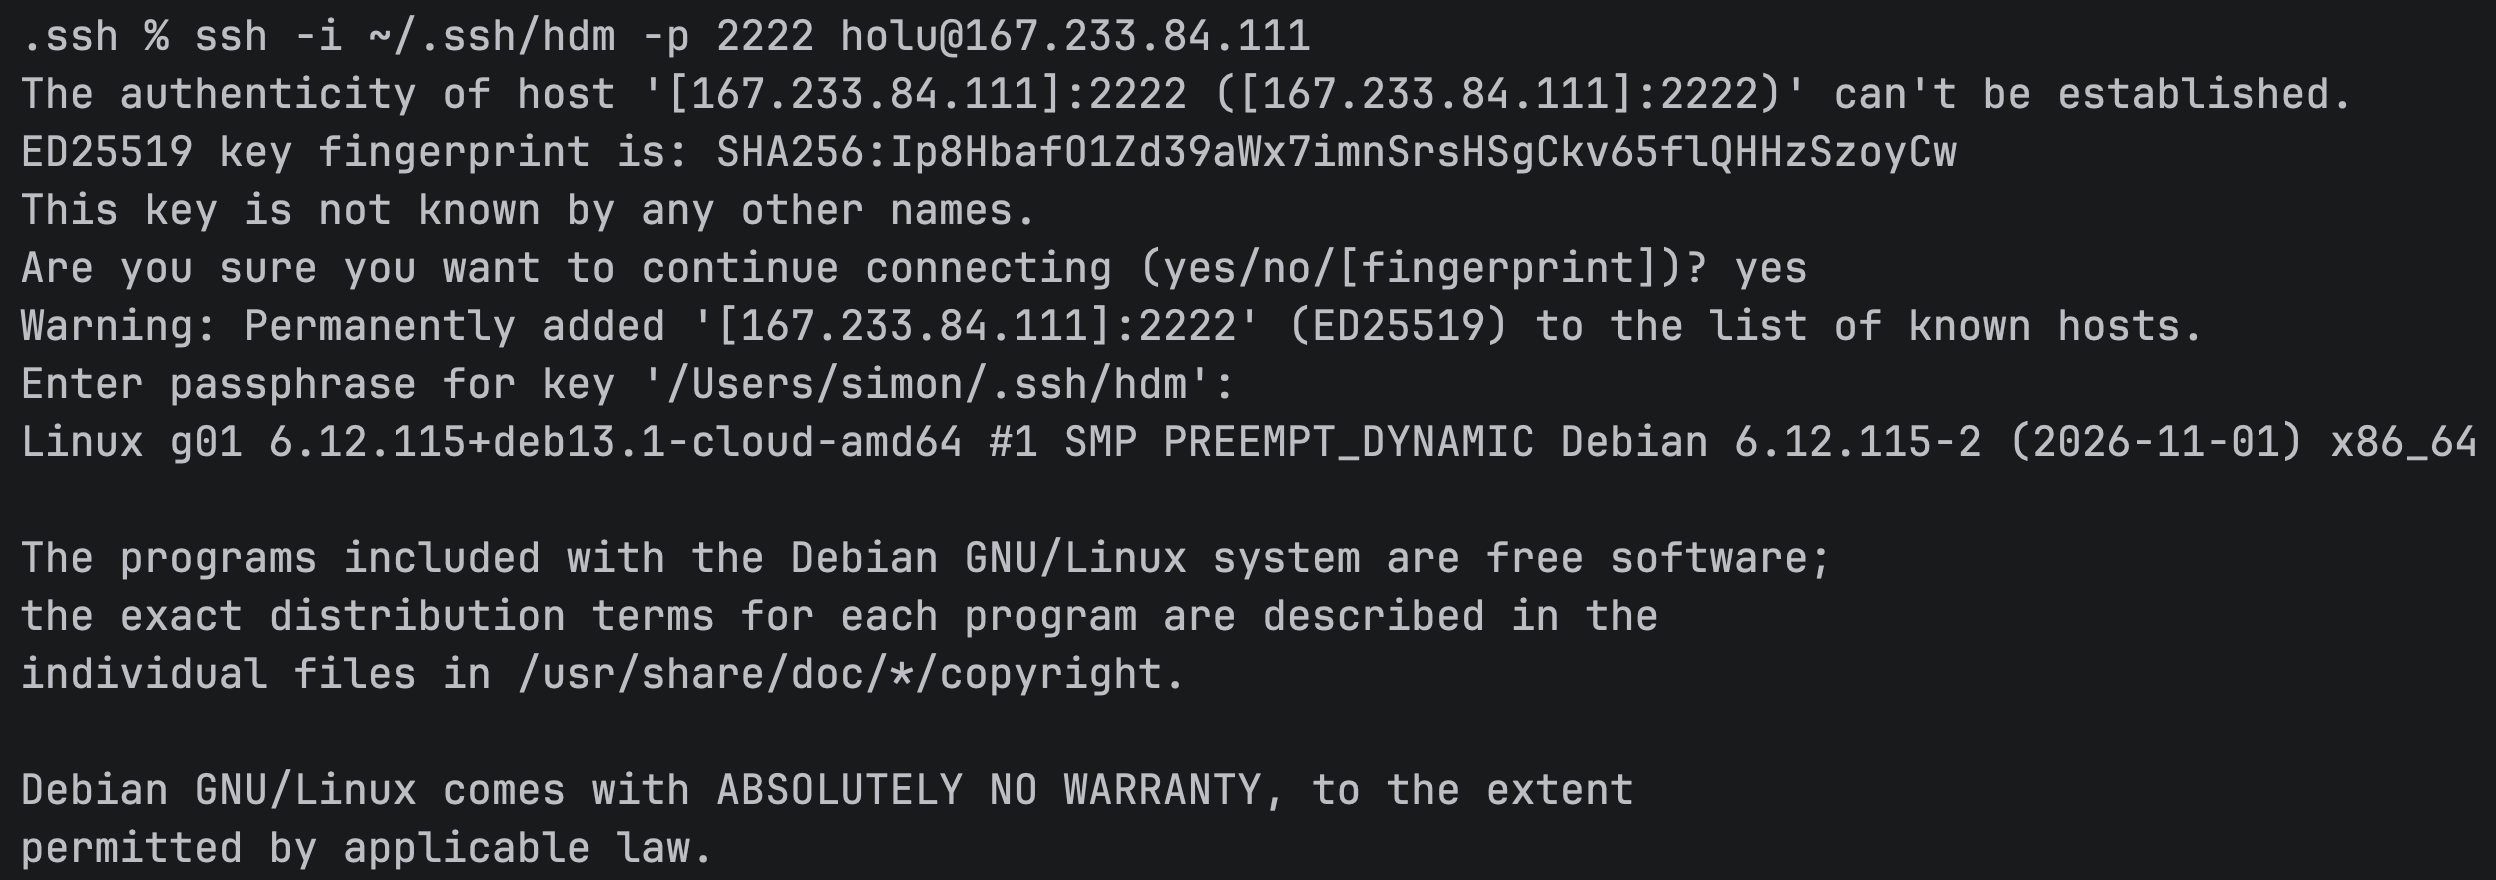
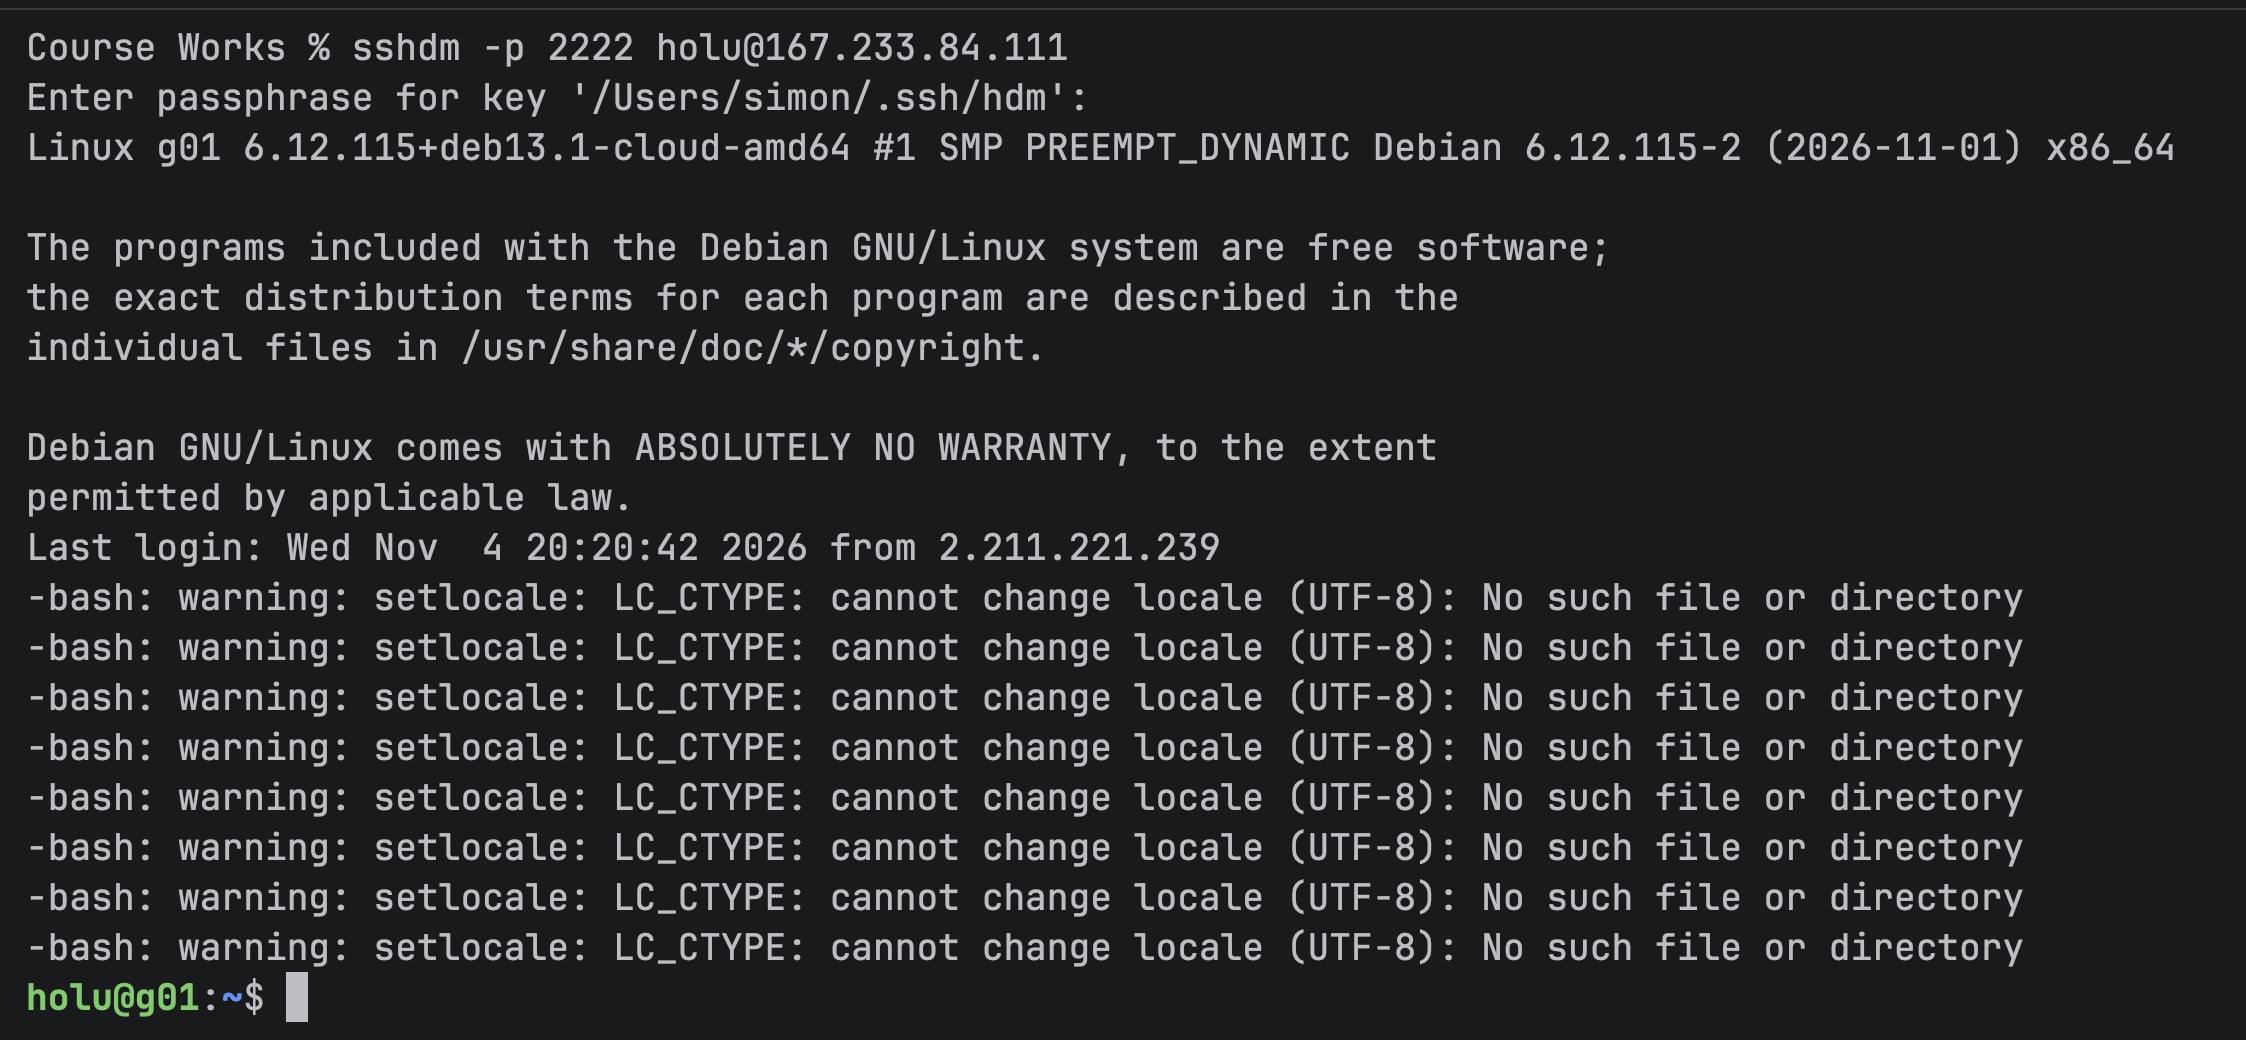
Updated solution for ex. 19

Changed region(s): [[0.0, 0.0, 0.9973, 0.9818]]

diff --git a/mkdocs/docs/19. Cloud-init for starters/2. Result.md b/mkdocs/docs/19. Cloud-init for starters/2. Result.md
@@ -1,0 +1,50 @@
+# Results
+
+## Logging into the server
+
+After waiting for the script to run, log into the newly created server.
+Since we changed the port SSH runs on, we have to specify `-p 2222`:
+
+``` bash
+ssh -i ~/.ssh/hdm -p 2222 holu@167.233.84.111
+```
+
+Note that a login as user `root` is no longer possible:
+
+<img src="img/11.root.png" style="max-height: 2.5lh">
+
+Logging in has to be done as the user `holu`:
+
+<img src="img/3.%20Connecting%20to%20the%20server.png" style="max-height: 17.5lh">
+
+Attempting a login without a permitted public key fails without allowing password login:
+
+<img src="img/10.failpki.png" style="max-height: 2lh">
+
+Logging in was successful, confirming the _cloud-init_ configuration was loaded.
+The specified SSH keys were placed into the server's `authorized_keys` file:
+
+<img src="img/5.%20authorized_keys.png" style="max-height: 3lh">
+
+## Firewall
+
+The configuration was supposed to set up a simple firewall, allowing only incoming SSH traffic to establish a connection.
+
+<img src="img/4.Firewall.png" style="max-height: 8lh">
+
+
+The firewall created via _cloud-init_ drops all packets except SSH traffic.
+ICMP is usually enabled by default if a server is created via the Hetzner GUI, but pinging the server for example doesn't work anymore since the firewall rules don't allow them through:
+
+<img src="img/6.ping.png" style="max-height: 7lh">
+
+## Fail2Ban
+
+In addition, _fail2ban_ was set up.<br>
+Repeated failed attempts are already penalized by the system, meaning _fail2ban_ doesn't register the unsuccessful tries: 
+
+<img src="img/8.%20ssh_penalty.png" style="max-height: 10lh">
+
+It is possible to confirm the tool was still set up by checking the file `jail.local`:
+
+<img src="img/7.Fail2Ban.png" style="max-height: 5lh">

diff --git a/mkdocs/docs/20. Cloud-init by Terraform/2. Result.md b/mkdocs/docs/20. Cloud-init by Terraform/2. Result.md
@@ -1,0 +1,25 @@
+# Result
+
+The resulting server configuration was the same as described in [Exercise 19. Results](../19.%20Cloud-init%20for%20starters/2.%20Result%20Verification.md), except for the following:
+
+- A cheaper server type was selectable via the API, meaning the server ran on a machine with fewer resources.
+
+Terraform allows creation of the server type `Cost-Optimized CX23`:
+```terraform
+variable "serverType" {
+  description = "Server type"
+  type = string
+  nullable = true
+  default = "cx23"
+}
+```
+
+Servers of type `CX23` are only available in limited amounts and sometimes not selectable via the GUI:
+
+<img src="img/cx23.png" style="max-width: 28lh;">
+
+- The deployment was now possible via Terraform, meaning the need for manual GUI interaction was gone.
+
+This means the deployment can be done via shell and therefore automated:
+
+<img src="img/creation.png" style="max-width: 34lh;">

diff --git a/mkdocs/docs/19. Cloud-init for starters/1. Solution.md b/mkdocs/docs/19. Cloud-init for starters/1. Solution.md
@@ -5,6 +5,17 @@
 To create the configuration, follow the instructions laid out in [Hetzner - Basic Cloud Config](https://community.hetzner.com/tutorials/basic-cloud-config/).
 The page provides the full configuration necessary to create the basic server instance via _cloud-init_.
 
+_Cloud-init_ generates its own config file _50-cloud-init.conf_ automatically, which enables password login by default:
+
+<img src="img/9.50config.png" style="max-height: 4lh">
+
+To ensure the desired SSH configuration takes effect, an additional parameter has to be added to prevent password login from being enabled:
+```terraform
+ssh_pwauth: false
+```
+
+### Verifying the configuration
+
 To verify the configuration was created correctly, run the schema validation:
 
 <img src="img/1.%20Validating%20cloud-init.png" style="max-width: 100%; max-height: 3lh;">

diff --git a/mkdocs/docs/20. Cloud-init by Terraform/0. Task.md b/mkdocs/docs/20. Cloud-init by Terraform/0. Task.md
@@ -1,8 +1,8 @@
 # Task
 
-## Cloud-init by Terraform
-
 [No. 20 Cloud-init by Terraform](https://medieninformatik.cloud/sdi_cloudProvider_cloudInit.html#sdi_cloudProvider_qandaCloudInitHetznerByTerra)
+
+## Cloud-init by Terraform
 
 > Re-use your Cloud-init script from [Cloud-init for starters](https://medieninformatik.cloud/sdi_cloudProvider_cloudInit.html#sdi_cloudProvider_qandaCloudInitHetzner). 
 This time follow [Figure 1106, “Terraform triggering Cloud-init”](https://medieninformatik.cloud/sdi_cloudProvider_cloudInit.html#sdi_cloudProvider_cloudInit_terraformInterfaceCloudinit) using Terraform for executing Cloud-init rather than Hetzner's WEB GUI.

diff --git a/mkdocs/docs/20. Cloud-init by Terraform/1. Solution.md b/mkdocs/docs/20. Cloud-init by Terraform/1. Solution.md
@@ -6,11 +6,9 @@ To avoid having to create the server manually, server creation via Terraform was
 
 Run the following command in the directory `20. Cloud-init by Terraform` or execute the _apply.sh_ script with the command line argument `20` to create the server via Terraform.
 
-``` bash
+```bash
 terraform init && terraform apply
 ```
-
-The results were the exact same as described in [Exercise 19. Results](../19.%20Cloud-init%20for%20starters/2.%20Result%20Verification.md).
 
 ## Creating the Terraform configuration
 

diff --git a/mkdocs/docs/19. Cloud-init for starters/0. Task.md b/mkdocs/docs/19. Cloud-init for starters/0. Task.md
@@ -1,8 +1,8 @@
 # Task
 
-## Cloud-init for starters
-
 [No. 19 Cloud-init for starters](https://medieninformatik.cloud/sdi_cloudProvider_cloudInit.html#sdi_cloudProvider_qandaCloudInitHetzner)
+
+## Cloud-init for starters
 
 > Follow [Hetzner's Cloud-init introduction](https://community.hetzner.com/tutorials/basic-cloud-config/) and assemble a corresponding cloud-init script. 
 Use the `package_reboot_if_required: true` directive in favor of an explicit reboot command.<br>

diff --git a/mkdocs/docs/21. Working on Cloud-init/0. Task.md b/mkdocs/docs/21. Working on Cloud-init/0. Task.md
@@ -1,8 +1,8 @@
 # Task
 
-## Working on Cloud-init
-
 [No. 21 - Working on Cloud-init](https://medieninformatik.cloud/sdi_cloudProvider_cloudInit.html#sdi_cloudProvider_cloudInit_qanda_gettingStarted)
+
+## Working on Cloud-init
 
 > We continue our exercise series ??? by adding a Cloud-init configuration:
 
